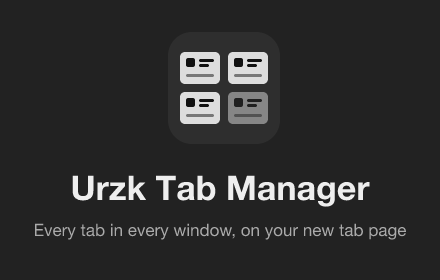
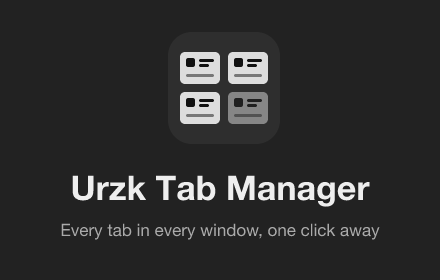
docs: describe the toolbar-only manager
The extension description, store listing (summary, single purpose,
permission and data-usage text), README, PRIVACY.md, promo tile, benchmarks
and architecture diagrams no longer describe a new tab page, and explain
that the toolbar button works in the current window.

Changed region(s): [[0.0591, 0.8, 0.9455, 0.8571]]

diff --git a/store/en.md b/store/en.md
@@ -9,13 +9,13 @@ Urzk Tab Manager
 
 ## Short description
 
-<!-- 129 characters (limit 132) -->
+<!-- 122 characters (limit 132) -->
 
-See and manage every tab in every window from your new tab page. Search by title, site or load state. Stays light with many tabs.
+Every tab in every window, one click away on the toolbar. Search by title, site or load state. Stays light with many tabs.
 
 ## Detailed description
 
-Urzk Tab Manager replaces your new tab page with an overview of every open tab in every Chrome window, so you can find, organize and close tabs without hunting through crowded tab strips.
+Urzk Tab Manager shows every open tab in every Chrome window on one page, so you can find, organize and close tabs without hunting through crowded tab strips. Open it from the toolbar button or with Alt+Shift+T. Your new tab page stays as it is.
 
 Features
 
@@ -23,13 +23,13 @@ Features
 • Tab cards. Each tab shows its favicon, title and URL. Click a card, or press Enter, to switch to that tab. Unloaded (discarded) tabs are dimmed.
 • Quick actions. Hover over a card to discard, close, pop out to a new window, move to the end of the current window, or move it up, down, left or right. With the keyboard, Enter switches to the focused tab and the arrow keys move it.
 • Search. Type words to find tabs whose title contains them in that order (case-insensitive). Add site:example.com to match a site and its subdomains, and loaded: (or l:) to show only tabs that are loaded. Windows with no matches are hidden while you search.
-• Toolbar button and shortcut. Click the toolbar button or press Alt+Shift+T to jump to the tab manager. If it is already open, that tab is focused instead of opening another one. You can change the shortcut at chrome://extensions/shortcuts.
+• Toolbar button and shortcut. Click the toolbar button or press Alt+Shift+T to open the tab manager in the current window. If that window already has it open, it switches to that tab instead of opening another one. You can change the shortcut at chrome://extensions/shortcuts.
 • Designed for many tabs. The page is designed to stay light with many tabs. It follows Chrome's tab events and checks itself against Chrome regularly, so the list stays in sync with Chrome within seconds.
 • English and Japanese, following your browser's language.
 
 Privacy
 
-Urzk Tab Manager reads the titles and URLs of your open tabs only to show and manage them on the new tab page. This information is handled in memory on your computer and is never saved or sent to the developer or anyone else. There are no analytics, no accounts and no remote code.
+Urzk Tab Manager reads the titles and URLs of your open tabs only to show and manage them on its tab manager page. This information is handled in memory on your computer and is never saved or sent to the developer or anyone else. There are no analytics, no accounts and no remote code.
 
 Urzk Tab Manager is free and open source software under the GPL-3.0-or-later license: https://github.com/urzk/urzk-tab-manager
 
@@ -47,13 +47,13 @@ English
 
 ## Single purpose
 
-Urzk Tab Manager has a single purpose: to show all open tabs in all windows on the new tab page and let the user find, switch to, move, discard and close them.
+Urzk Tab Manager has a single purpose: to show all open tabs in all windows on one extension page, opened from the toolbar button, and let the user find, switch to, move, discard and close them.
 
 ## Permission justification
 
 ### tabs
 
-Read the titles and URLs of open tabs to list and manage them on the new tab page: showing each tab's title and URL, searching tabs, and switching to, moving, discarding and closing tabs at the user's request.
+Read the titles and URLs of open tabs to list and manage them on the extension's tab manager page: showing each tab's title and URL, searching tabs, and switching to, moving, discarding and closing tabs at the user's request. When the toolbar button is clicked, it is also used to find a tab manager page already open in the current window.
 
 ### favicon
 
@@ -78,7 +78,7 @@ Web history is declared because the extension reads the titles and URLs of the
 user's open tabs. Chrome Web Store asks for this disclosure even when the data
 never leaves the device. If the dashboard asks how the data is used, enter:
 
-> The titles and URLs of open tabs are read only to show the tab list on the new tab page and to carry out the user's actions (switch, move, discard, close). They are processed in memory on the user's device, are never stored, and are never sent to the developer or any third party.
+> The titles and URLs of open tabs are read only to show the tab list on the extension's tab manager page and to carry out the user's actions (switch, move, discard, close). They are processed in memory on the user's device, are never stored, and are never sent to the developer or any third party.
 
 Certifications (check all three):
 

diff --git a/README.ja.md b/README.ja.md
@@ -2,7 +2,7 @@
 
 [English](README.md) | 日本語
 
-新しいタブのページを、すべてのウィンドウで開いているタブの一覧に置き換える Chrome 拡張機能です。タブが 1000 枚を超えても、すばやく見つけて、整理して、閉じられます。
+すべてのウィンドウで開いているタブを1つのページに一覧表示する Chrome 拡張機能です。タブが 1000 枚を超えても、すばやく見つけて、整理して、閉じられます。ツールバーボタンか Alt+Shift+T で開き、新しいタブのページはそのままです。
 
 ![タブの一覧](store/screenshots/ja-1.png)
 
@@ -12,7 +12,7 @@
 - **タブカード。** ファビコン、タイトル、URL を表示します。カードをクリックするか Enter キーを押すと、そのタブに切り替わります。破棄（メモリから解放）されたタブは薄く表示されます。
 - **クイック操作。** カードにマウスを乗せると表示されます。タブの破棄、閉じる、新しいウィンドウへの切り出し、現在のウィンドウの末尾への移動、上下左右への移動ができます。キーボードでは、フォーカス中のタブに Enter キーで切り替え、矢印キーで移動できます。
 - **検索。** タイトル、サイト、読み込み状態で絞り込めます（下記参照）。
-- **ツールバーボタンとショートカット。** マネージャーを開きます。すでに開いている場合はそのタブに切り替えます。
+- **ツールバーボタンとショートカット。** 現在のウィンドウでマネージャーを開きます。そのウィンドウですでに開いている場合はそのタブに切り替えます。
 - **大量のタブでも正確。** Chrome のタブのイベントに追従し、定期的に Chrome の状態と照合します。ずれが生じても、操作が止まってから約 0.5 秒、遅くとも 30 秒以内に修正されます。
 - **英語と日本語**の UI（ブラウザの言語設定に従います）。
 
@@ -30,7 +30,7 @@
 
 ## キーボードショートカット
 
-**Alt+Shift+T** を押す（またはツールバーボタンをクリックする）と、マネージャーを開きます。すでにどこかのタブで開いている場合は、そのタブとウィンドウにフォーカスします。ショートカットを変更するには `chrome://extensions/shortcuts` を開きます。
+**Alt+Shift+T** を押す（またはツールバーボタンをクリックする）と、現在のウィンドウでマネージャーを開きます。そのウィンドウにマネージャーのタブがすでにある場合は、そのタブに切り替えます。ほかのウィンドウのマネージャーのタブには移動しません。ショートカットを変更するには `chrome://extensions/shortcuts` を開きます。
 
 タブカード上では、**Enter** でそのタブに切り替え、**矢印キー**でタブを移動します。
 
@@ -89,9 +89,9 @@ pnpm build         # 拡張機能を dist/ にビルド
 
 リリースの前に、ビルドした `dist/` を Chrome に読み込んで確認します。
 
-- [ ] **パッケージ化されていない拡張機能を読み込む**で `dist/` をエラーなく読み込め、新しいタブを開くとマネージャーが表示される。
+- [ ] **パッケージ化されていない拡張機能を読み込む**で `dist/` をエラーなく読み込め、新しいタブを開くと Chrome 標準の新しいタブのページが表示される。
 - [ ] 1000 タブ（`scripts/open-many-tabs.sh dist 1000 4`）でメモリ、DOM ノード数、描画までの時間を計測し、[docs/benchmarks.md](docs/benchmarks.md) に記録する。
-- [ ] ツールバーボタンでマネージャーが開く。すでに開いている場合はそのタブにフォーカスする。
+- [ ] ツールバーボタンで現在のウィンドウにマネージャーが開く。そのウィンドウですでに開いている場合はそのタブに切り替わる。ほかのウィンドウのマネージャーのタブにはフォーカスしない。
 - [ ] Alt+Shift+T でも同じ動作をし、`chrome://extensions/shortcuts` でショートカットを変更できる。
 - [ ] ブラウザの言語が英語のとき、UI が英語で表示される。
 - [ ] ブラウザの言語が日本語のとき、UI が日本語で表示される。

diff --git a/docs/benchmarks.md b/docs/benchmarks.md
@@ -1,6 +1,6 @@
 # Benchmarks
 
-Measures how the extension's new-tab page behaves with many open tabs.
+Measures how the extension's tab manager page behaves with many open tabs.
 Use `scripts/open-many-tabs.sh` to load Chrome with the extension and open
 lightweight tabs, then record the metrics below.
 
@@ -40,13 +40,14 @@ self-contained with `dist/manifest.json`. Run `pnpm build` first.
 
 For each build, after the tabs have opened:
 
-1. **Memory of the new-tab page**: Chrome Task Manager (Shift+Esc) memory for
-   the extension's new-tab page row, after opening a new tab.
+1. **Memory of the manager page**: Chrome Task Manager (Shift+Esc) memory for
+   the manager page's row, after opening it (baseline: open a new tab; 1.0:
+   click the toolbar button).
 2. **Memory of the service worker**: Chrome Task Manager memory for the row
    named `Extension: ...` (the background service worker).
-3. **DOM node count**: in DevTools console on the new-tab page run
+3. **DOM node count**: in DevTools console on the manager page run
    `document.querySelectorAll('*').length`.
-4. **Time-to-render**: DevTools Performance panel. Record a load of the new-tab
+4. **Time-to-render**: DevTools Performance panel. Record a load of the manager
    page and measure from navigation start to the end of the last long task
    (> 50 ms).
 
@@ -54,7 +55,7 @@ For each build, after the tabs have opened:
 
 Branded Google Chrome 137+ ignores `--load-extension`. The script passes
 `--disable-features=DisableLoadExtensionCommandLineSwitch` to work around this,
-but if the extension still does not appear (no new-tab override, no
+but if the extension still does not appear (no toolbar button, no
 `Extension: ...` row in Task Manager), use one of these alternatives:
 
 - Point `CHROME` at Chrome for Testing or Chromium, which still honor
@@ -70,12 +71,12 @@ Also note the Chrome version (`chrome://version`) and the machine
 
 ### Baseline (pre-1.0)
 
-| Chrome version | Machine | New-tab memory (MB) | Service worker memory (MB) | DOM node count | Time-to-render (ms) |
+| Chrome version | Machine | Manager page memory (MB) | Service worker memory (MB) | DOM node count | Time-to-render (ms) |
 |----------------|---------|---------------------|----------------------------|----------------|---------------------|
 |                |         |                     |                            |                |                     |
 
 ### 1.0.0 candidate
 
-| Chrome version | Machine | New-tab memory (MB) | Service worker memory (MB) | DOM node count | Time-to-render (ms) |
+| Chrome version | Machine | Manager page memory (MB) | Service worker memory (MB) | DOM node count | Time-to-render (ms) |
 |----------------|---------|---------------------|----------------------------|----------------|---------------------|
 |                |         |                     |                            |                |                     |

diff --git a/README.md b/README.md
@@ -2,9 +2,10 @@
 
 English | [日本語](README.ja.md)
 
-A Chrome extension that replaces the new tab page with an overview of every
-open tab in every window, so you can find, organize and close tabs quickly,
-even with more than 1000 of them.
+A Chrome extension that shows every open tab in every window on one page, so
+you can find, organize and close tabs quickly, even with more than 1000 of
+them. Open it from the toolbar button or with Alt+Shift+T; your new tab page
+stays as it is.
 
 ![Tab overview](store/screenshots/en-1.png)
 
@@ -20,8 +21,8 @@ even with more than 1000 of them.
   down, left or right. With the keyboard, Enter switches to the focused tab
   and the arrow keys move it.
 - **Search** by title, site and load state (see below).
-- **Toolbar button and shortcut** to open the manager, or focus it if it is
-  already open.
+- **Toolbar button and shortcut** to open the manager in the current window,
+  or switch to it if that window already has it open.
 - **Accurate with many tabs.** The page follows Chrome's tab events and
   regularly checks itself against Chrome, so any drift is corrected about half
   a second after activity stops, and within 30 seconds at most.
@@ -43,8 +44,9 @@ buttons are disabled.
 
 ## Keyboard shortcut
 
-Press **Alt+Shift+T** (or click the toolbar button) to open the manager. If
-it is already open in some tab, that tab and its window are focused instead.
+Press **Alt+Shift+T** (or click the toolbar button) to open the manager in
+the current window. If that window already has a manager tab, it switches to
+that tab instead; manager tabs in other windows are left alone.
 To change the shortcut, open `chrome://extensions/shortcuts`.
 
 On a tab card: **Enter** switches to the tab, and the **arrow keys** move it.
@@ -121,9 +123,9 @@ How to open 1000+ tabs with `scripts/open-many-tabs.sh` and what to measure
 
 Run through this before each release, with the built `dist/` loaded in Chrome.
 
-- [ ] `dist/` loads in Chrome via **Load unpacked** without errors, and opening a new tab shows the manager.
+- [ ] `dist/` loads in Chrome via **Load unpacked** without errors, and opening a new tab still shows Chrome's own new tab page.
 - [ ] With 1000 tabs (`scripts/open-many-tabs.sh dist 1000 4`), measure memory, DOM node count and time to render, and record them in [docs/benchmarks.md](docs/benchmarks.md).
-- [ ] The toolbar button opens the manager, or focuses it if it is already open.
+- [ ] The toolbar button opens the manager in the current window, or switches to it if that window already has one. A manager tab in another window is not focused.
 - [ ] Alt+Shift+T does the same, and the shortcut can be changed at `chrome://extensions/shortcuts`.
 - [ ] With the browser language set to English, the UI is in English.
 - [ ] With the browser language set to Japanese, the UI is in Japanese.

diff --git a/CHANGELOG.md b/CHANGELOG.md
@@ -10,7 +10,7 @@ and this project adheres to [Semantic Versioning](https://semver.org/spec/v2.0.0
 ### Added
 
 - Extension and toolbar icons.
-- Clicking the toolbar button or pressing Alt+Shift+T focuses the tab manager if it is already open, or opens it otherwise.
+- Clicking the toolbar button or pressing Alt+Shift+T switches to the tab manager in the current window, or opens it there.
 - Japanese UI, selected automatically from the browser language.
 - Search is case-insensitive and matches words in order.
 - `site:` filter to search by site, and `loaded:` (short form `l:`) filter to search by load state.
@@ -18,6 +18,7 @@ and this project adheres to [Semantic Versioning](https://semver.org/spec/v2.0.0
 
 ### Changed
 
+- The tab manager no longer replaces the new tab page. Open it from the toolbar button or with Alt+Shift+T.
 - Tab and window state is now event-driven, with a periodic reconcile to catch missed events.
 - Collapsed windows are not rendered, and hover actions are rendered only when needed, so large tab counts stay responsive.
 - Rebuilt on Svelte 5 and Vite 8.
